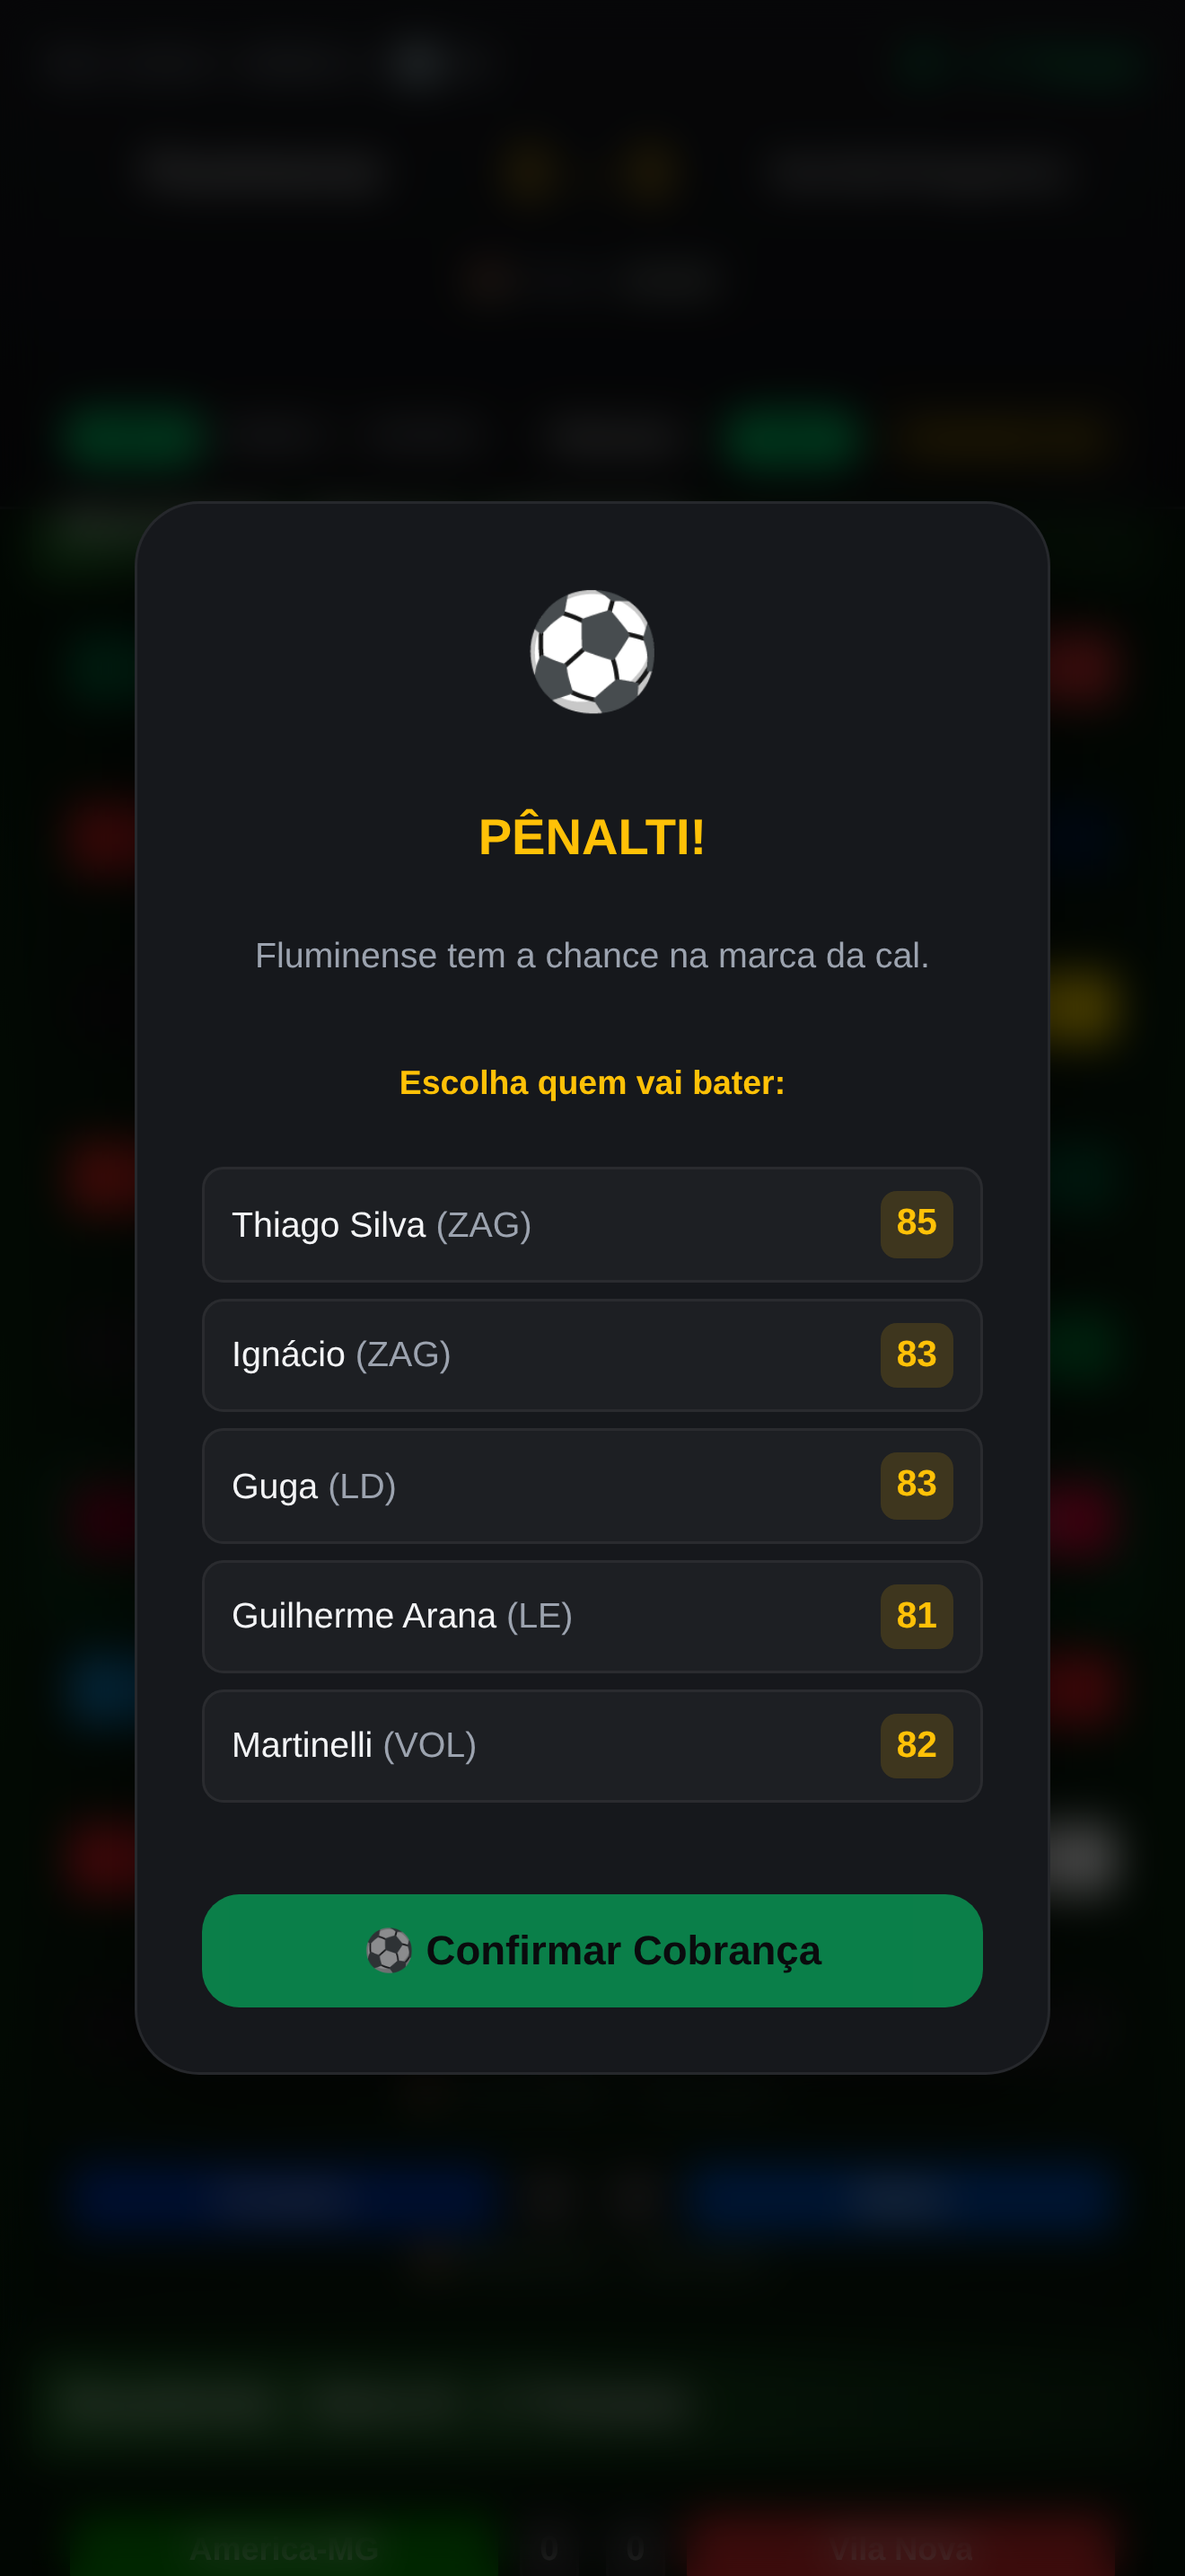
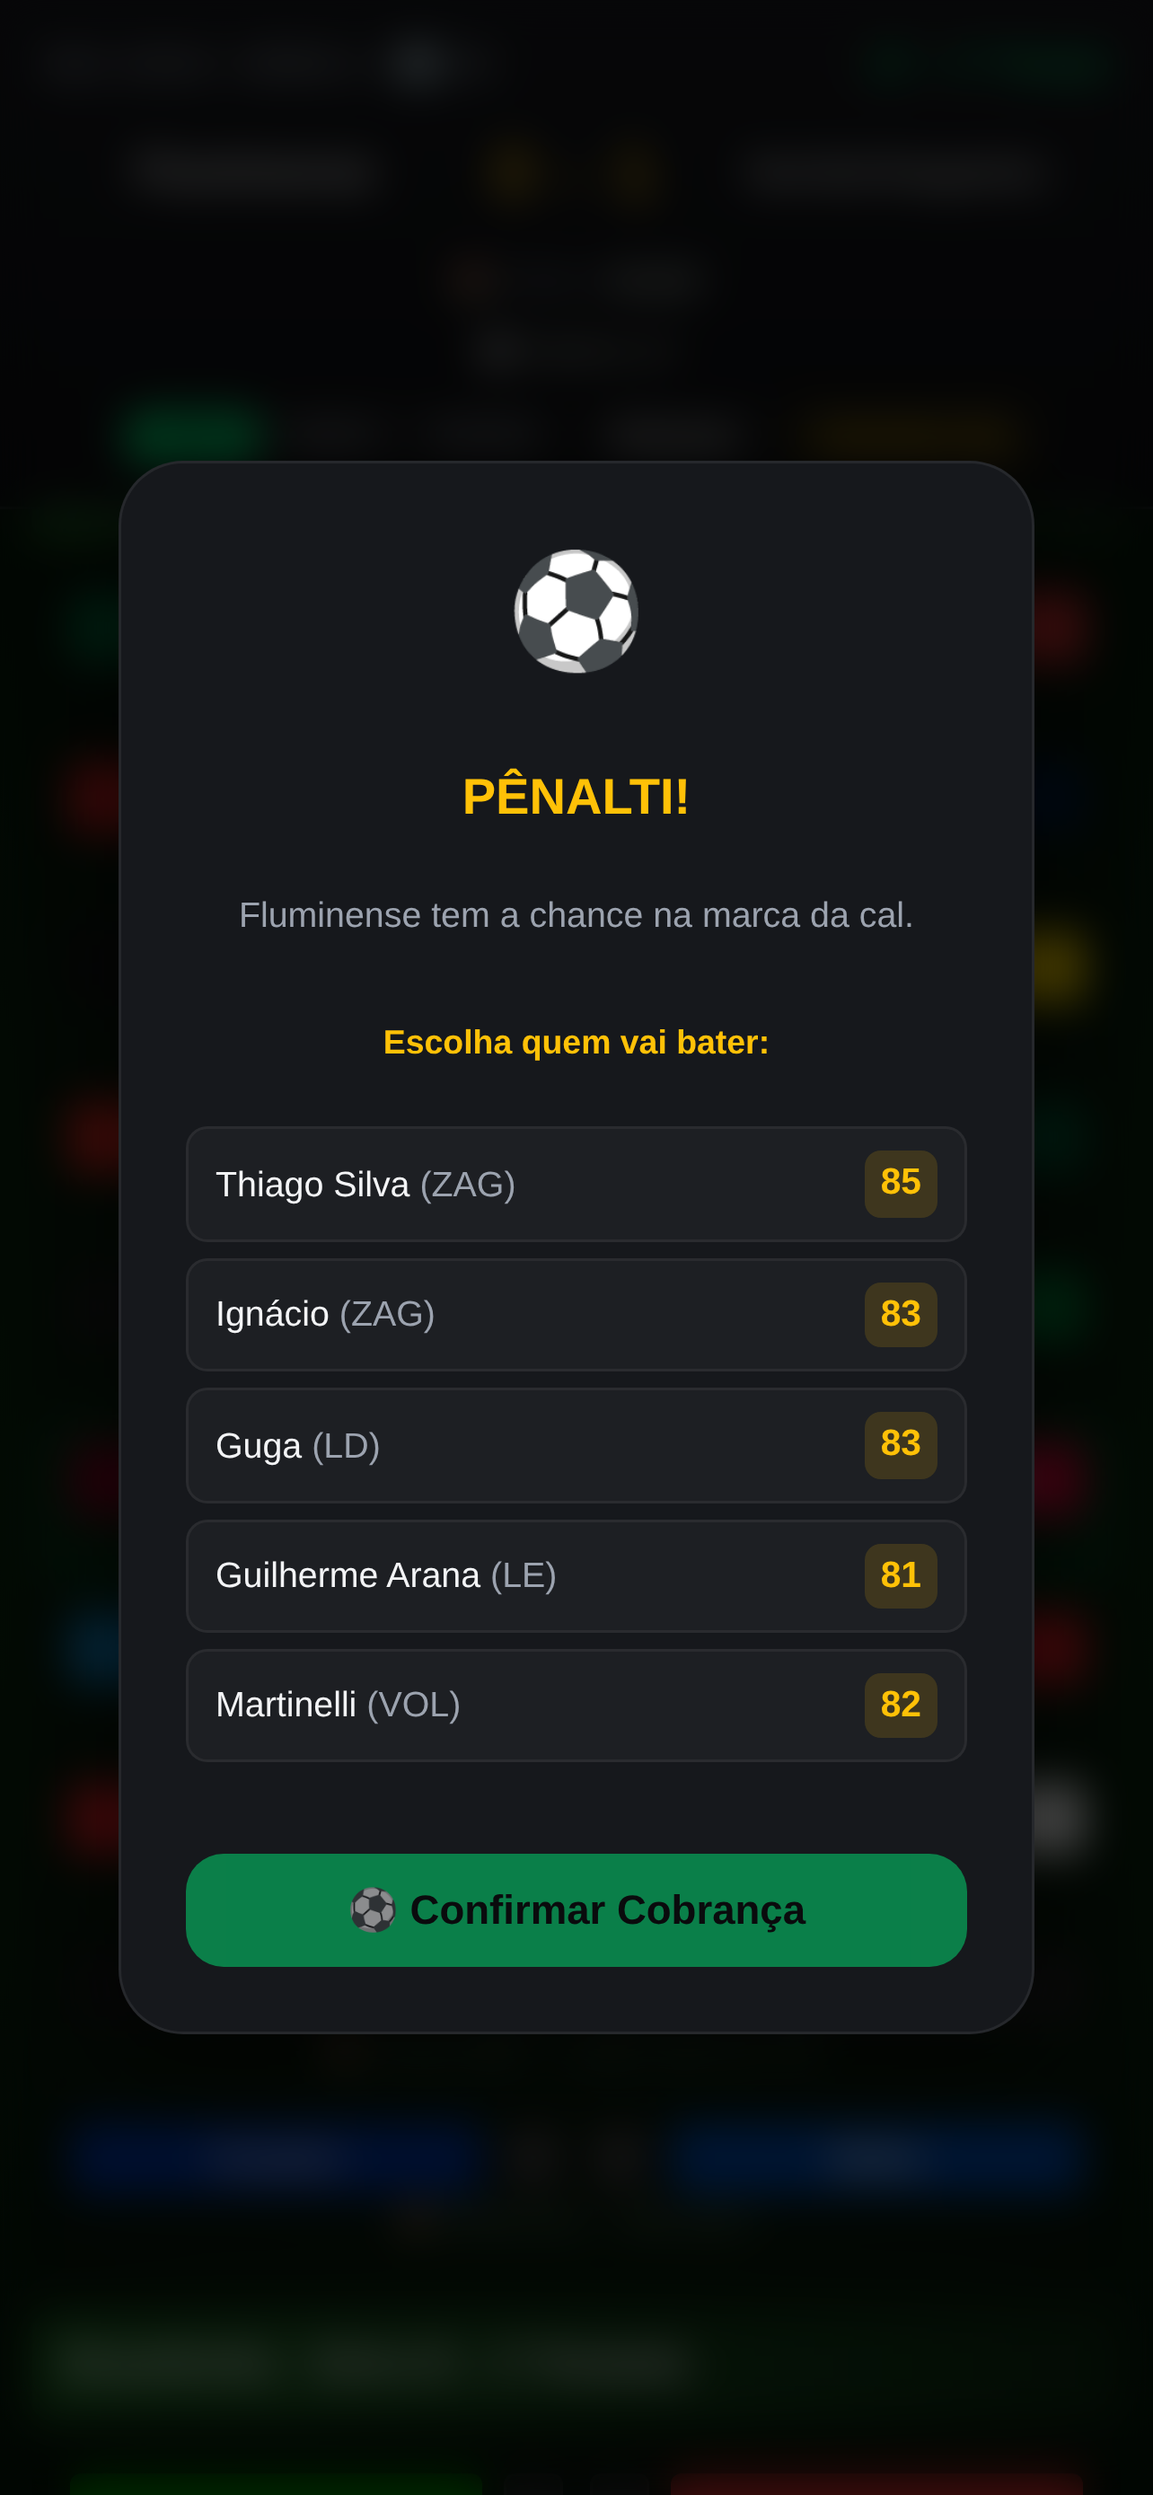
Regenera os 10 screenshots no tamanho exigido pelo App Store Connect
O App Store Connect só pede a categoria "iPhone 6,5 pol." pra este
app (1242x2688 ou 1284x2778), não 6,9 pol. como eu tinha gerado
antes. Regera as mesmas 10 capturas em 1284x2778 e corrige um bug
no processo: um cartão vermelho aleatório da partida simulada
estava ficando por cima dos modais forçados de pênalti/VAR nos
screenshots de teste -- passou a fechar qualquer modal do jogo que
apareça naturalmente antes de forçar os de demonstração.

diff --git a/docs/loja/app-store-checklist.md b/docs/loja/app-store-checklist.md
@@ -164,7 +164,7 @@ O questionário novo da Apple (desde 2024) pergunta por categorias de conteúdo.
 
 ## 7. Screenshots **[Claude gerou e já curou os 10, você pode usar direto ou polir]**
 
-10 capturas em `docs/loja/screenshots/`, já numeradas na ordem final de upload, resolução 1320×2868 (iPhone 6.9", o conjunto que a Apple usa como principal hoje). Apple permite no máximo 10 por tamanho de tela e os 2 primeiros são os que mais pesam na conversão, por isso a ordem começa pelas telas de maior impacto visual (ação ao vivo, pênalti, VAR) antes das telas de configuração:
+10 capturas em `docs/loja/screenshots/`, já numeradas na ordem final de upload, resolução 1284×2778 (a categoria "iPhone Tela de 6,5 pol." é a única exigida em App Store Connect pra este app). Apple permite no máximo 10 por tamanho de tela e os 2 primeiros são os que mais pesam na conversão, por isso a ordem começa pelas telas de maior impacto visual (ação ao vivo, pênalti, VAR) antes das telas de configuração:
 
 1. `01-partida-ao-vivo.png` — partida ao vivo, placar e rodada completa do Brasileirão
 2. `02-penalti.png` — modal de pênalti, escolha do batedor
